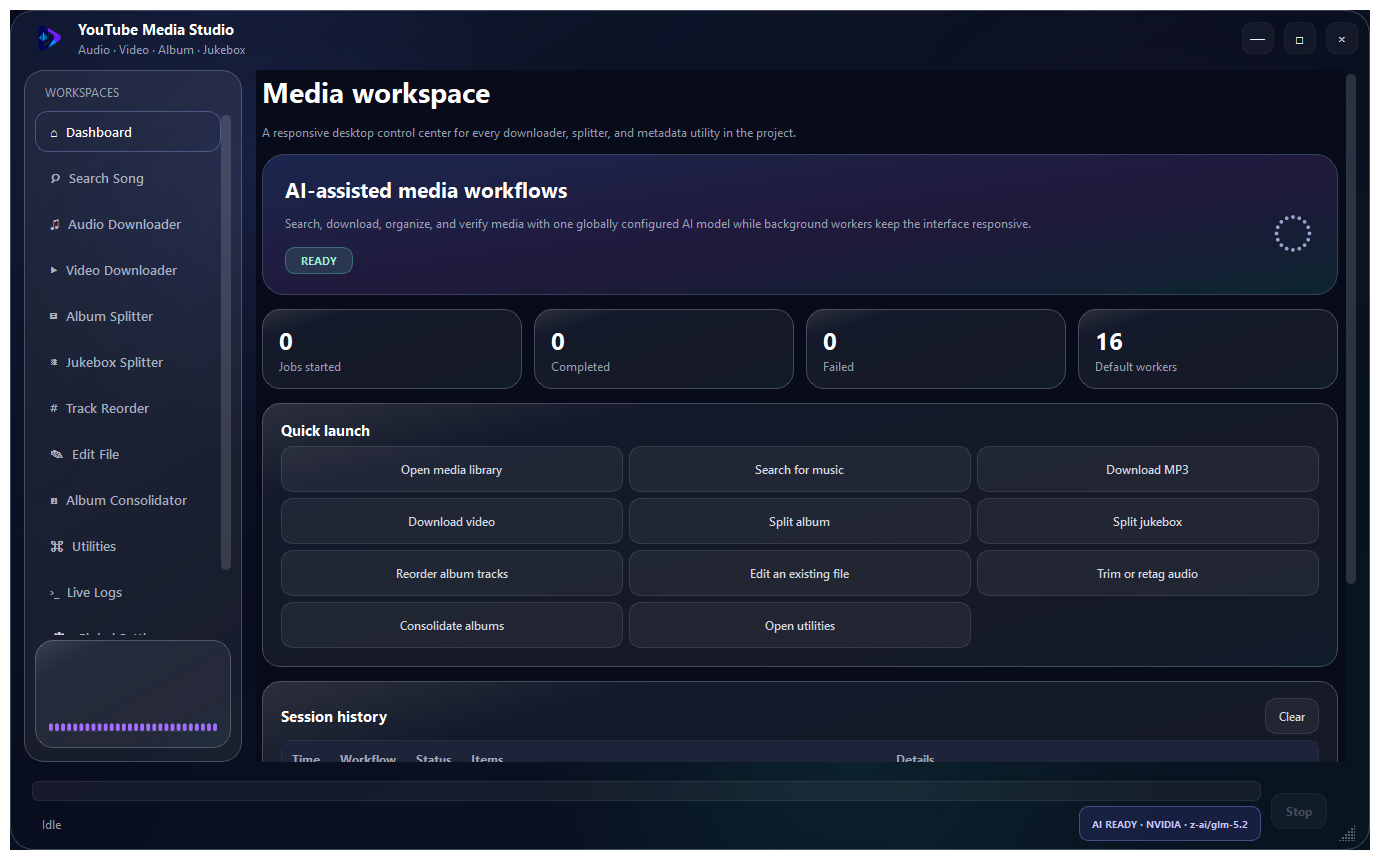
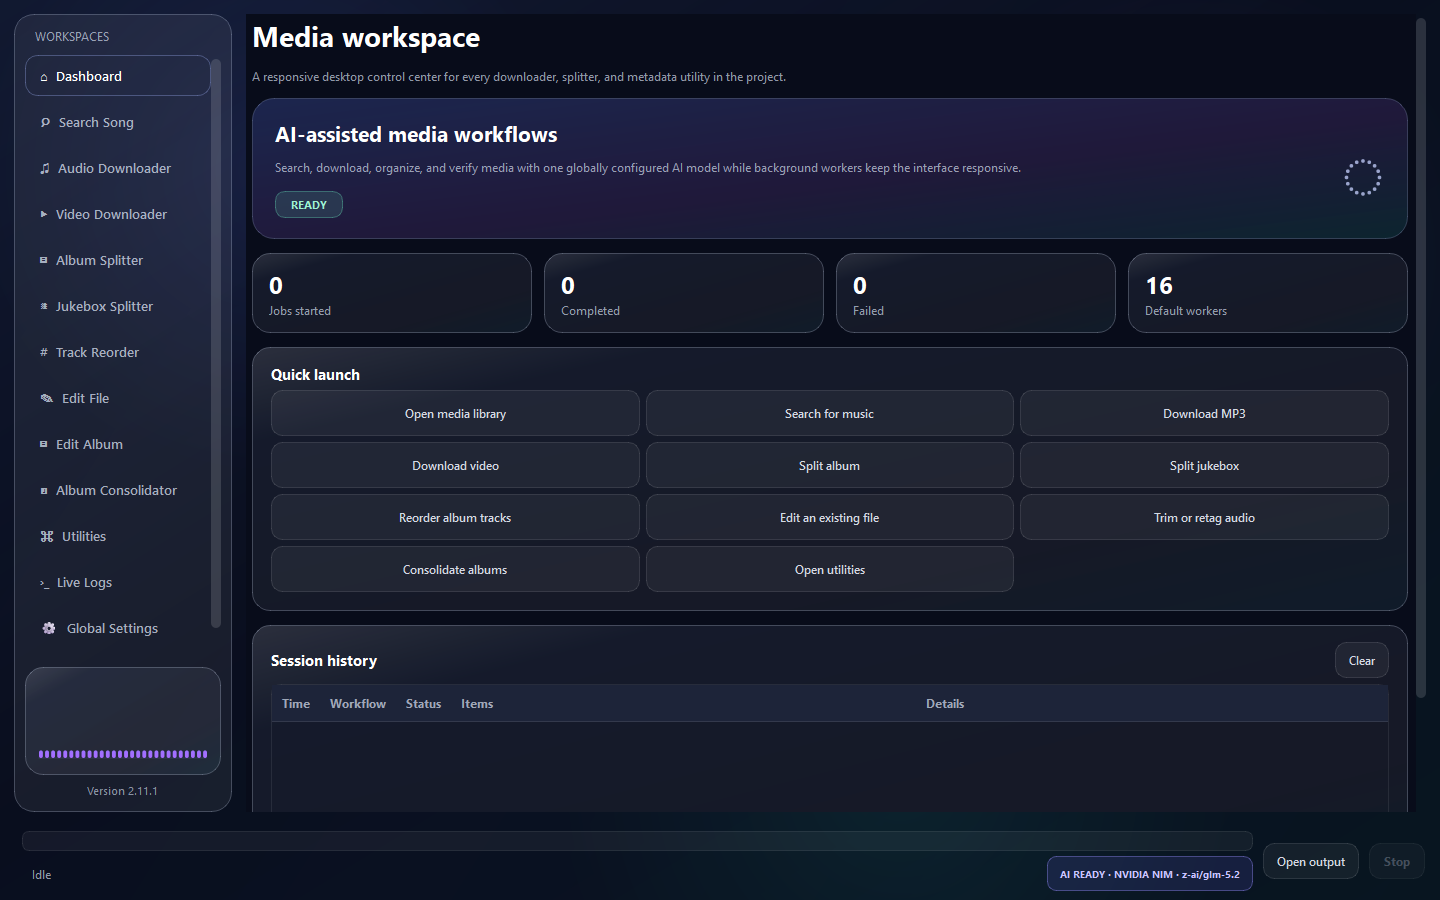
chore: clean optional config inputs and refresh docs (#36)
* chore: remove obsolete local config ignores

* docs: refresh job paths and dashboard screenshot

* docs: capture dashboard at standard desktop size

diff --git a/src/youtube_audio_video_downloader/gui/application/main_window.py b/src/youtube_audio_video_downloader/gui/application/main_window.py
@@ -2177,7 +2177,7 @@ class MainWindow(QMainWindow):
         layout = QVBoxLayout(tab)
         layout.setContentsMargins(18, 18, 18, 18)
         self.tracks_input_file = PathPicker(
-            placeholder="Optional config/timestamps.txt",
+            placeholder="Optional timestamp text file",
             file_filter="Text files (*.txt);;All files (*)",
         )
         self.tracks_text = QPlainTextEdit()

diff --git a/README.md b/README.md
@@ -323,9 +323,9 @@ youtube-media-studio [--data-dir FOLDER] <command> [options]
 | `doctor` | Verify FFmpeg, FFprobe, Deno, and yt-dlp |
 
 ```sh
-youtube-media-studio audio config/songs.json
-youtube-media-studio video config/videos.json
-youtube-media-studio album config/albums.json
+youtube-media-studio audio ~/youtube-media-jobs/songs.json
+youtube-media-studio video ~/youtube-media-jobs/videos.json
+youtube-media-studio album ~/youtube-media-jobs/albums.json
 youtube-media-studio doctor
 ```
 
@@ -384,7 +384,16 @@ uv run youtube-media-studio doctor
 ```
 
 Tracked job templates live in `config/*.sample.json`. Copy only the templates you
-need to their non-sample names; those local files are ignored by Git.
+need, preferably to a personal working directory outside the checkout. Non-sample
+job files are optional inputs and are not included in the repository. For example:
+
+```sh
+mkdir -p ~/youtube-media-jobs
+cp config/songs.sample.json ~/youtube-media-jobs/songs.json
+```
+
+Avoid staging personal job files because they may contain local paths or private
+download selections.
 
 <details>
 <summary><b>Quality checks and native builds</b></summary>

diff --git a/docs/PYTHON_LIBRARY.md b/docs/PYTHON_LIBRARY.md
@@ -516,7 +516,7 @@ files. Back up both roots before automating it.
 
 ```python
 summary = studio.duplicate_links(
-    input_path="config/songs.json",
+    input_path="/path/to/youtube-media-jobs/songs.json",
     output_path="reports/duplicates.json",
     ai_enabled=False,
 )
@@ -594,7 +594,7 @@ studio = MediaStudio(defaults={"ai_enabled": False})
 with ThreadPoolExecutor(max_workers=1) as executor:
     future = executor.submit(
         studio.audio,
-        input_path="config/songs.json",
+        input_path="/path/to/youtube-media-jobs/songs.json",
         output_dir="downloads/songs",
     )
     # From another event handler or control path:
